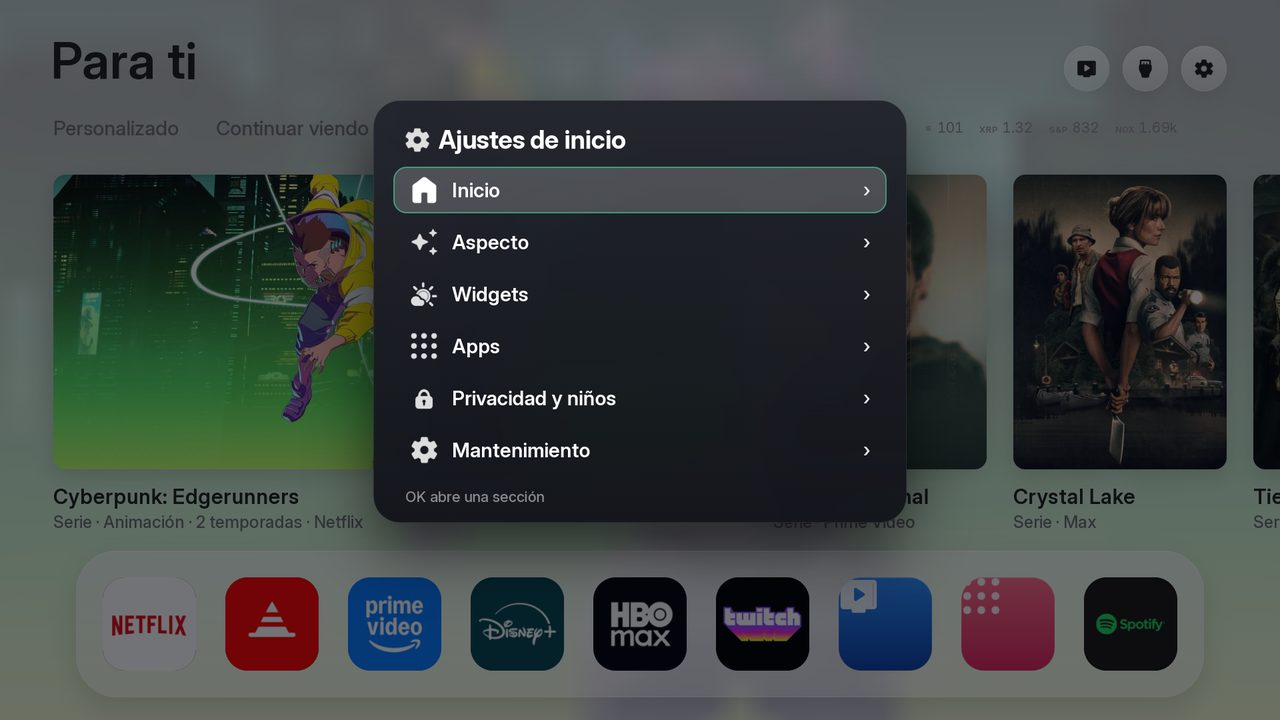
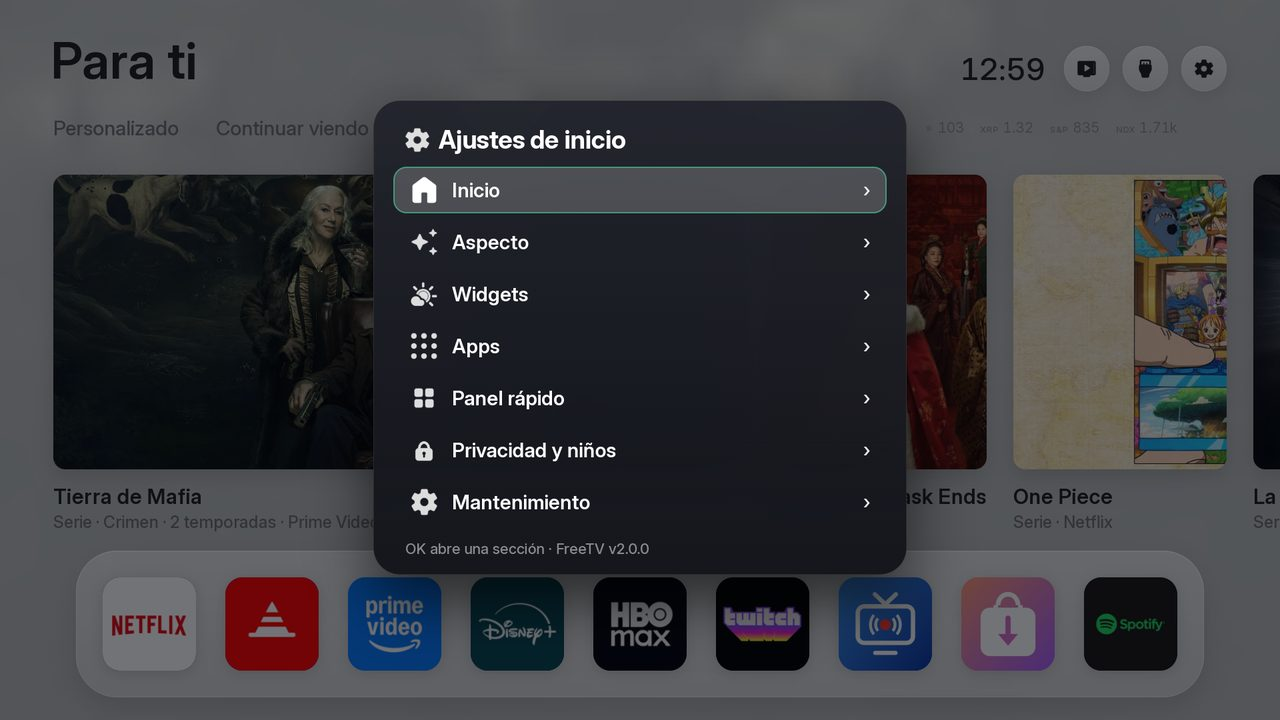
FreeTV 2.0 documented: README (EN/ES) with fresh screenshots, CHANGELOG, AGENTS

diff --git a/README.md b/README.md
@@ -11,6 +11,12 @@
 
 <table><tr><td width="33%"><img src="docs/screens/ajustes.jpg" alt="Home Settings: language, theme, start tab…"><br><sub>Home Settings: language, theme, start tab…</sub></td><td width="33%"><img src="docs/screens/tienda-instaladas.jpg" alt="The Store lists what you have installed, with its version"><br><sub>The Store lists what you have installed, with its version</sub></td><td width="33%"><img src="docs/screens/tienda-actualizaciones.jpg" alt="Apps with a new version are marked; Update all"><br><sub>Apps with a new version are marked; Update all</sub></td></tr><tr><td width="33%"><img src="docs/screens/modo-desarrollador.jpg" alt="Developer Mode: time left and automatic renewal"><br><sub>Developer Mode: time left and automatic renewal</sub></td><td width="33%"><img src="docs/screens/privacidad-lg.jpg" alt="LG privacy: is the TV listening? (ACR)"><br><sub>LG privacy: is the TV listening? (ACR)</sub></td><td width="33%"><img src="docs/screens/menu-mantener-ok.jpg" alt="Hold OK on a channel: open, move, remove"><br><sub>Hold OK on a channel: open, move, remove</sub></td></tr></table>
 
+### FreeTV 2.0: make it yours
+
+Many more settings, new widgets, a Store that tells you what each app is, a quick panel you fill yourself, and proper icons for Live TV and the Store. The TV shows **FreeTV v2.0.0** while it starts. Nothing from before was removed. All changes: [CHANGELOG.md](CHANGELOG.md).
+
+<table><tr><td width="50%"><img src="docs/screens/tienda-comunidad.jpg" alt="The Store: each app with its icon and one line about it"><br><sub>The Store: each app with its icon and one line about it</sub></td><td width="50%"><img src="docs/screens/saludo.jpg" alt="A greeting with your name, the date by the clock, compact icons"><br><sub>A greeting with your name, the date by the clock, compact icons</sub></td></tr><tr><td width="50%"><img src="docs/screens/aspecto.jpg" alt="Look: 7 accent colours, background, title, your name, icon size, animations"><br><sub>Look: 7 accent colours, background, title, your name, icon size, animations</sub></td><td width="50%"><img src="docs/screens/widgets.jpg" alt="Widgets: clock on or off, 24 h or 12 h, the date beside it"><br><sub>Widgets: clock on or off, 24 h or 12 h, the date beside it</sub></td></tr></table>
+
 ### New: frosted glass and menus by section
 
 Menus are now frosted glass over your home screen, with settings in sections and a **quick panel** (open it from the drawer).
@@ -47,9 +53,13 @@ about. No rooting: it installs like any app through LG's **Developer Mode**, and
   ("Series · Netflix", "Movie · Prime Video"). The first, wider one adds genre and length.
 - **Markets in dollars:** Bitcoin, Ethereum, Solana and **XRP (Ripple)** (Binance), and iShares **S&P 500** and **NASDAQ 100**
   (CSPX and CNDX, in dollars). Each one can be switched off. Information only, not investment advice.
-- **A clock** at the top right, left of the round buttons (14:34), always on time to the minute.
+- **A clock** at the top right, left of the round buttons (14:34), always on time to the minute. *Home Settings → Widgets*: on or off,
+  24 h, 12 h or automatic, and the date beside it. *Home Settings → Home*: when the screensaver starts (1 to 30 minutes, or never) and
+  whether it shows its clock.
+- **Proper icons for Live TV and the Store** on the shelf, drawn by `tools/make_tiles.py` like the rest of the apps' icons.
 - **Weather** for your city, with sunrise and sunset; the screen goes dark at night.
-- **An app store, on the TV itself.** The **Store** icon on the shelf (and *Home Settings → Community apps*) opens the
+- **An app store, on the TV itself.** Every app in the list has **its icon and one line about it** (in your language for the ones
+  people look for most), so you can tell whether you want it before opening it. The **Store** icon on the shelf (and *Home Settings → Community apps*) opens the
   [webOS Homebrew](https://repo.webosbrew.org) catalogue: ad-free YouTube, Kodi, Jellyfin, Moonlight, native Plex, RetroArch…
   Press OK on an app for its page and, if it **needs no root**, an **Install on this TV** button: the TV downloads the package,
   checks its SHA-256 hash and installs it, no computer (if you turn that on while installing FreeTV). Anything that needs root
@@ -91,12 +101,15 @@ about. No rooting: it installs like any app through LG's **Developer Mode**, and
   without root)**; see [docs/PRIVACIDAD.md](docs/PRIVACIDAD.md) for what we measured and what to turn off.
 - **Frosted glass, minimal.** Every menu, dialog and panel is frosted glass over your home screen (blur and saturation, the way a
   phone does it), with one accent colour for focus. *Home Settings → Look*: theme, frosted glass (automatic uses it only where the TV's
-  browser can do it; older TVs get a plain dark panel), **accent colour** (mint, blue, rose, amber), **background** (the focused cover, or
-  landscapes) and **calm mode** (hides the market quotes and the clock).
-- **Settings in sections.** Home, Look, Widgets, Apps, Privacy and kids, Maintenance, each with its icon, instead of one long list.
+  browser can do it; older TVs get a plain dark panel), **accent colour** (mint, blue, violet, rose, orange, amber, sky), **background** (the
+  focused cover, landscapes or plain), **title** ("For You", or a greeting for the time of day with **your name**), **icon size** (normal or
+  compact), **animations** (normal or reduced) and **calm mode** (hides the market quotes and the clock).
+- **Settings in sections.** Home, Look, Widgets, Apps, Quick panel, Privacy and kids, Maintenance, each with its icon, instead of one long
+  list. The version (FreeTV v2.0.0) is at the bottom.
 - **Quick panel.** From the drawer: **search** (apps, your channels, the Store and YouTube, with the TV's keyboard), **calm mode**,
-  **sleep timer** (off, 15, 30, 60, 90 minutes; it warns you 30 seconds before and any key cancels it), **kids mode**, **TV health**
-  and settings.
+  **sleep timer** (off, 15, 30, 60, 90 minutes; it warns you 30 seconds before and any key cancels it), **kids mode**, **TV health**,
+  **theme**, **screensaver now** and settings; and, if you want them, **accent colour**, **All Apps**, the **Store**, **TV Settings** and
+  **Reload FreeTV**. *Home Settings → Quick panel* switches each tile on or off (up to 12, in four columns).
 - **Kids mode.** One switch and FreeTV shows only the kids' channels, hides the settings and the drawer and ignores the long presses.
   You pick a 4-digit PIN with the remote; the PIN gets you out. Back and Home cannot.
 - **TV health.** One card: Developer Mode days left, updates waiting, free space, whether LG's ACR is listening, whether the store
@@ -273,6 +286,12 @@ affiliated with LG.
 
 <table><tr><td width="33%"><img src="docs/screens/ajustes.jpg" alt="Ajustes de inicio: idioma, tema, pestaña de inicio…"><br><sub>Ajustes de inicio: idioma, tema, pestaña de inicio…</sub></td><td width="33%"><img src="docs/screens/tienda-instaladas.jpg" alt="La Tienda enseña lo que tienes instalado, con su versión"><br><sub>La Tienda enseña lo que tienes instalado, con su versión</sub></td><td width="33%"><img src="docs/screens/tienda-actualizaciones.jpg" alt="Las apps con versión nueva salen marcadas; Actualizar todo"><br><sub>Las apps con versión nueva salen marcadas; Actualizar todo</sub></td></tr><tr><td width="33%"><img src="docs/screens/modo-desarrollador.jpg" alt="Modo Desarrollador: tiempo restante y renovación automática"><br><sub>Modo Desarrollador: tiempo restante y renovación automática</sub></td><td width="33%"><img src="docs/screens/privacidad-lg.jpg" alt="Privacidad de LG: ¿la tele escucha? (ACR)"><br><sub>Privacidad de LG: ¿la tele escucha? (ACR)</sub></td><td width="33%"><img src="docs/screens/menu-mantener-ok.jpg" alt="Mantén OK sobre un canal: abrir, mover, quitar"><br><sub>Mantén OK sobre un canal: abrir, mover, quitar</sub></td></tr></table>
 
+### FreeTV 2.0: a tu gusto
+
+Muchos más ajustes, widgets nuevos, una Tienda que te dice qué es cada app, un panel rápido que llenas tú, e iconos de verdad para TV en directo y la Tienda. La tele enseña **FreeTV v2.0.0** mientras arranca. No se ha quitado nada de lo de antes. Todos los cambios: [CHANGELOG.md](CHANGELOG.md).
+
+<table><tr><td width="50%"><img src="docs/screens/tienda-comunidad.jpg" alt="La Tienda: cada app con su icono y una línea sobre ella"><br><sub>La Tienda: cada app con su icono y una línea sobre ella</sub></td><td width="50%"><img src="docs/screens/saludo.jpg" alt="Un saludo con tu nombre, la fecha junto al reloj, iconos compactos"><br><sub>Un saludo con tu nombre, la fecha junto al reloj, iconos compactos</sub></td></tr><tr><td width="50%"><img src="docs/screens/aspecto.jpg" alt="Aspecto: 7 colores de acento, fondo, título, tu nombre, tamaño de iconos, animaciones"><br><sub>Aspecto: 7 colores de acento, fondo, título, tu nombre, tamaño de iconos, animaciones</sub></td><td width="50%"><img src="docs/screens/widgets.jpg" alt="Widgets: reloj sí o no, 24 h o 12 h, la fecha al lado"><br><sub>Widgets: reloj sí o no, 24 h o 12 h, la fecha al lado</sub></td></tr></table>
+
 ### Nuevo: cristal esmerilado y menús por secciones
 
 Los menús ahora son cristal esmerilado sobre tu pantalla de inicio, con los ajustes por secciones y un **panel rápido** (se abre desde el cajón).
@@ -310,9 +329,13 @@ de LG, y **todo se puede deshacer**.
   dónde verla** («Serie · Netflix», «Película · Prime Video»). La primera, más grande, trae género y duración.
 - **Mercados en dólares:** Bitcoin, Ethereum, Solana y **XRP (Ripple)** (Binance), y el **S&P 500** y el **NASDAQ 100** de
   iShares (CSPX y CNDX, en dólares). Cada uno se puede apagar en Ajustes. Son datos informativos, no un consejo de inversión.
-- **Un reloj** arriba a la derecha, a la izquierda de los botones redondos (14:34), siempre en hora al minuto.
+- **Un reloj** arriba a la derecha, a la izquierda de los botones redondos (14:34), siempre en hora al minuto. *Ajustes de inicio →
+  Widgets*: sí o no, 24 h, 12 h o automático, y la fecha al lado. *Ajustes de inicio → Inicio*: cuándo empieza el salvapantallas (de 1 a 30
+  minutos, o nunca) y si enseña su reloj.
+- **Iconos de verdad para TV en directo y la Tienda** en el estante, dibujados por `tools/make_tiles.py` como los de las demás apps.
 - **El tiempo** de tu ciudad, con amanecer y atardecer; la pantalla se oscurece de noche.
-- **Una tienda de apps, en la propia tele.** El icono **Tienda** del estante (y *Ajustes de inicio → Apps de la comunidad*) abre el
+- **Una tienda de apps, en la propia tele.** Cada app de la lista lleva **su icono y una línea sobre ella** (en tu idioma para las más
+  buscadas), para saber si la quieres antes de abrirla. El icono **Tienda** del estante (y *Ajustes de inicio → Apps de la comunidad*) abre el
   catálogo de [webOS Homebrew](https://repo.webosbrew.org): YouTube sin anuncios, Kodi, Jellyfin, Moonlight, Plex nativo, RetroArch… Con
   OK en una app ves su ficha y, si **no pide root**, el botón **Instalar en esta tele**: la tele descarga el paquete, comprueba su
   hash SHA-256 y lo instala, sin ordenador (si lo activas al instalar FreeTV). Lo que pide root **no se instala**. Ver
@@ -356,11 +379,15 @@ de LG, y **todo se puede deshacer**.
 - **Cristal esmerilado y minimalismo.** Todos los menús, diálogos y paneles son cristal esmerilado sobre tu pantalla de inicio (desenfoque y
   saturación, como en un móvil), con un solo color de acento para el foco. *Ajustes de inicio → Aspecto*: tema, cristal esmerilado
   (en automático solo se usa donde el navegador de la tele puede; las teles antiguas llevan un panel oscuro liso), **color de acento** (menta,
-  azul, rosa, ámbar), **fondo** (la portada en foco, o paisajes) y **modo calma** (oculta las cotizaciones y el reloj).
-- **Ajustes por secciones.** Inicio, Aspecto, Widgets, Apps, Privacidad y niños, Mantenimiento, cada una con su icono, en vez de una lista larga.
+  azul, violeta, rosa, naranja, ámbar, cielo), **fondo** (la portada en foco, paisajes o liso), **título** («Para ti», o un saludo según la
+  hora con **tu nombre**), **tamaño de los iconos** (normal o compacto), **animaciones** (normales o reducidas) y **modo calma** (oculta las
+  cotizaciones y el reloj).
+- **Ajustes por secciones.** Inicio, Aspecto, Widgets, Apps, Panel rápido, Privacidad y niños, Mantenimiento, cada una con su icono, en vez
+  de una lista larga. Abajo sale la versión (FreeTV v2.0.0).
 - **Panel rápido.** Desde el cajón: **buscar** (apps, tus canales, la Tienda y YouTube, con el teclado de la tele), **modo calma**,
-  **apagar en** (no, 15, 30, 60, 90 minutos; avisa 30 segundos antes y cualquier tecla lo cancela), **modo niños**, **salud de la tele**
-  y ajustes.
+  **apagar en** (no, 15, 30, 60, 90 minutos; avisa 30 segundos antes y cualquier tecla lo cancela), **modo niños**, **salud de la tele**,
+  **tema**, **salvapantallas ahora** y ajustes; y, si los quieres, **color de acento**, **Todas las apps**, la **Tienda**, **Ajustes del TV** y
+  **Recargar FreeTV**. *Ajustes de inicio → Panel rápido* enciende o apaga cada uno (hasta 12, en cuatro columnas).
 - **Modo niños.** Un interruptor y FreeTV solo enseña los canales de los peques, esconde los ajustes y el cajón e ignora las pulsaciones largas.
   Eliges un PIN de 4 cifras con el mando; con el PIN sales. Atrás y Home no.
 - **Salud de la tele.** Una tarjeta: días de Modo Desarrollador, actualizaciones pendientes, espacio libre, si el ACR de LG escucha, si la

diff --git a/AGENTS.md b/AGENTS.md
@@ -48,7 +48,7 @@ Community screen install through the computer (the TV app itself cannot install 
 ids, and every install is confirmed on the TV. The TV side of it (launch params from `ares-launch -p`) is untested on real hardware. **Never install anything on the person's TV without their yes for that app.** Store/LG apps cannot be removed from the computer (`FAILED_REMOVE`); installing an app whose id belongs to a store app (YouTube AdFree) while the original is present half-breaks the original's launcher entry: the person must delete the original on the TV first |
 | `home/tizenbrew.js` | Samsung only: TizenBrew's modules (YouTube AdFree = TizenTube, Twitch AdFree = Twizen, the Store's search on npm). Opens a module with an app control to TizenBrew, lists/adds/removes them over TizenBrew's service (`ws://127.0.0.1:8081`, only up once TizenBrew was opened). Always ask before adding a module |
 | `tests/run.js` | `node tests/run.js`: the store service's logic with a mocked TV shell (versions, updates, Developer Mode renewal) and a parse check of `home/`. CI (`.github/workflows/ci.yml`) runs it, `tools/check_secrets.py --all` and a keyless build on every push. Run it before pushing |
-| `tools/make_symbols.py` | Draws FreeTV's own symbols (search, kids, health, calm, lock, timer) into `assets/symbols/`, same weight as the Material ones |
+| `tools/make_symbols.py` | Draws FreeTV's own symbols (search, kids, health, calm, lock, timer, tiles) into `assets/symbols/`, same weight as the Material ones |
 | `tizen/` | Samsung: `build.py` (unsigned/signed .wgt), `install.py` (SDB over Wi-Fi). Experimental, untested by us on a Samsung |
 | `android/` | Free My TV's Android app, unchanged (`build.sh`, `app/`). Not built or tested by us. Never commit its `config.properties`, `*.keystore` or `*.apk` |
 
@@ -71,3 +71,12 @@ Menus are frosted glass (`frostWanted()`, class `frost` on `body`; a sheet must 
 ## The Home button's stop
 
 Holding Home stops the helper and leaves `state/blocked` in `com.local.nativehome`; LG's automatic launch at power-on used to respect it for ever. `tools/patch_helper.py` (patch 4) makes a marker from before the TV started, or older than ten minutes, count as old. In FreeTV, Home Settings → Home shows the state (`HomeExtras.homeRows`, fed by `helper-control.js`) and `Prefs.homeAuto` (on by default) resumes the helper when FreeTV opens. The helper's log is `state/controller.log` (worker `EXIT 22` is a long Home press).
+
+## 2.0: options, the quick panel, the Store's rows
+
+- New choices are read with `Prefs.opt(name, default)` (`iconSize`, `motion`, `titleMode`, `name`, `topClock`, `topDate`, `clock24`, `saverAfter`, `saverClock`, `quickHidden`); accents live in `ACCENTS` (data.js) with their CSS under `body.acc-<name>`.
+- The quick panel's tiles come from `quickDefs()` (each with an `id`; `lg: true` for webOS only); `QUICK_OFF` are hidden until the person turns them on. Its tiles use the class `qtile`: the shelf's are `tile`, keep them apart.
+- Store rows: `commIcon()` (catalogue `iconUri`, a letter when it fails) and `commDesc()` (`COMM_DESC` in three languages, else the catalogue's `shortDescription`). Lists with taller rows set `data-pitch` and `data-visible` on `.rows`.
+- Shelf icons FreeTV draws itself: `tools/make_tiles.py` → `assets/tiles/`, used through an app's `tile` field.
+- Changing the version: `home/appinfo.json`, `tizen/config.xml`, `python3 tools/make_splash.py`, and a section in `CHANGELOG.md`.
+

diff --git a/CHANGELOG.md b/CHANGELOG.md
@@ -1,0 +1,45 @@
+# Changelog
+
+FreeTV's version is the one in `home/appinfo.json`; the TV shows it while FreeTV starts (`home/splash.png`) and at the
+bottom of *Home Settings*. Every change is also in the git history of `main`.
+
+## 2.0.0 (2026-10-28)
+
+**Make it yours.** Nothing from 1.x was removed.
+
+### New
+- **Store with icons and descriptions.** Every community app shows its icon from the webOS Homebrew catalogue and one line
+  about it, in your language for the apps people look for most (YouTube AdFree, Twitch AdFree, Jellyfin, Kodi, Moonlight,
+  Plex, RetroArch, Homebrew Channel…). Its page shows the icon too.
+- **Look:** seven accent colours (mint, blue, violet, rose, orange, amber, sky); a plain background besides the focused cover
+  and landscapes; a **title** that can be a greeting for the time of day, with **your name** (typed with the TV's keyboard);
+  **compact icons**; **reduced animations**.
+- **Widgets:** the top clock on or off, 24 h / 12 h / automatic, and the date beside it.
+- **Home:** when the screensaver starts (1, 2, 5, 10, 15, 30 minutes or never) and whether it shows its clock.
+- **Quick panel you choose:** new tiles (theme, screensaver now, accent colour, All Apps, Store, TV Settings, Reload FreeTV)
+  next to search, calm mode, sleep timer, kids mode, TV health and settings. *Home Settings → Quick panel* switches each one
+  on or off; up to 12, in four columns.
+- **Proper icons for Live TV and the Store** on the shelf (`tools/make_tiles.py`).
+- **Version 2.0.0** on the start screen and in *Home Settings*.
+
+### Fixed
+- The quick panel's styles (class `tile`) also applied to the shelf: Live TV's and the Store's symbols sat in a corner and the
+  focused app grew 4% instead of 20%. The panel's tiles are now `qtile`.
+
+## 1.9.x (October 2026)
+
+- **Home button and start-up stay on.** Holding Home stops them only until the TV is turned on again, and opening FreeTV turns
+  them back on (*Home Settings → Home*, on by default). Before, an accidental long press left them off for good.
+- **Start screen:** the TV shows FreeTV's logo, name and version while it starts, no longer "Free My TV".
+- **LG's clock screensaver:** the permission that sends it away is asked while someone is looking (a prompt nobody answered
+  no longer counts as a "no" for ever).
+- **A clock** at the top right of the home screen.
+- **Frosted glass** menus, **settings by section**, **quick panel**, **TV health**, **sleep timer**, **search**,
+  **kids mode** with a PIN, **calm mode**, **accent colours**, **landscape background**, **first start guide**, notice of a new
+  FreeTV version; tests (`tests/run.js`) and CI.
+- **Store updates:** installed apps with their version, *Update*, *Update all*, optional daily automatic update.
+- **Developer Mode** time left and automatic renewal from the TV itself; **LG privacy (ACR)** check; **settings survive a
+  reinstall**; choose the **start tab**; hide LG's clutter from All Apps.
+- **Custom tab:** add YouTube channels from the TV; hold OK menus; Continue watching.
+- **Samsung:** community apps through TizenBrew; YouTube AdFree and Twitch AdFree on the shelf.
+- **Screensaver** over LG's own, with landscapes and picks.
